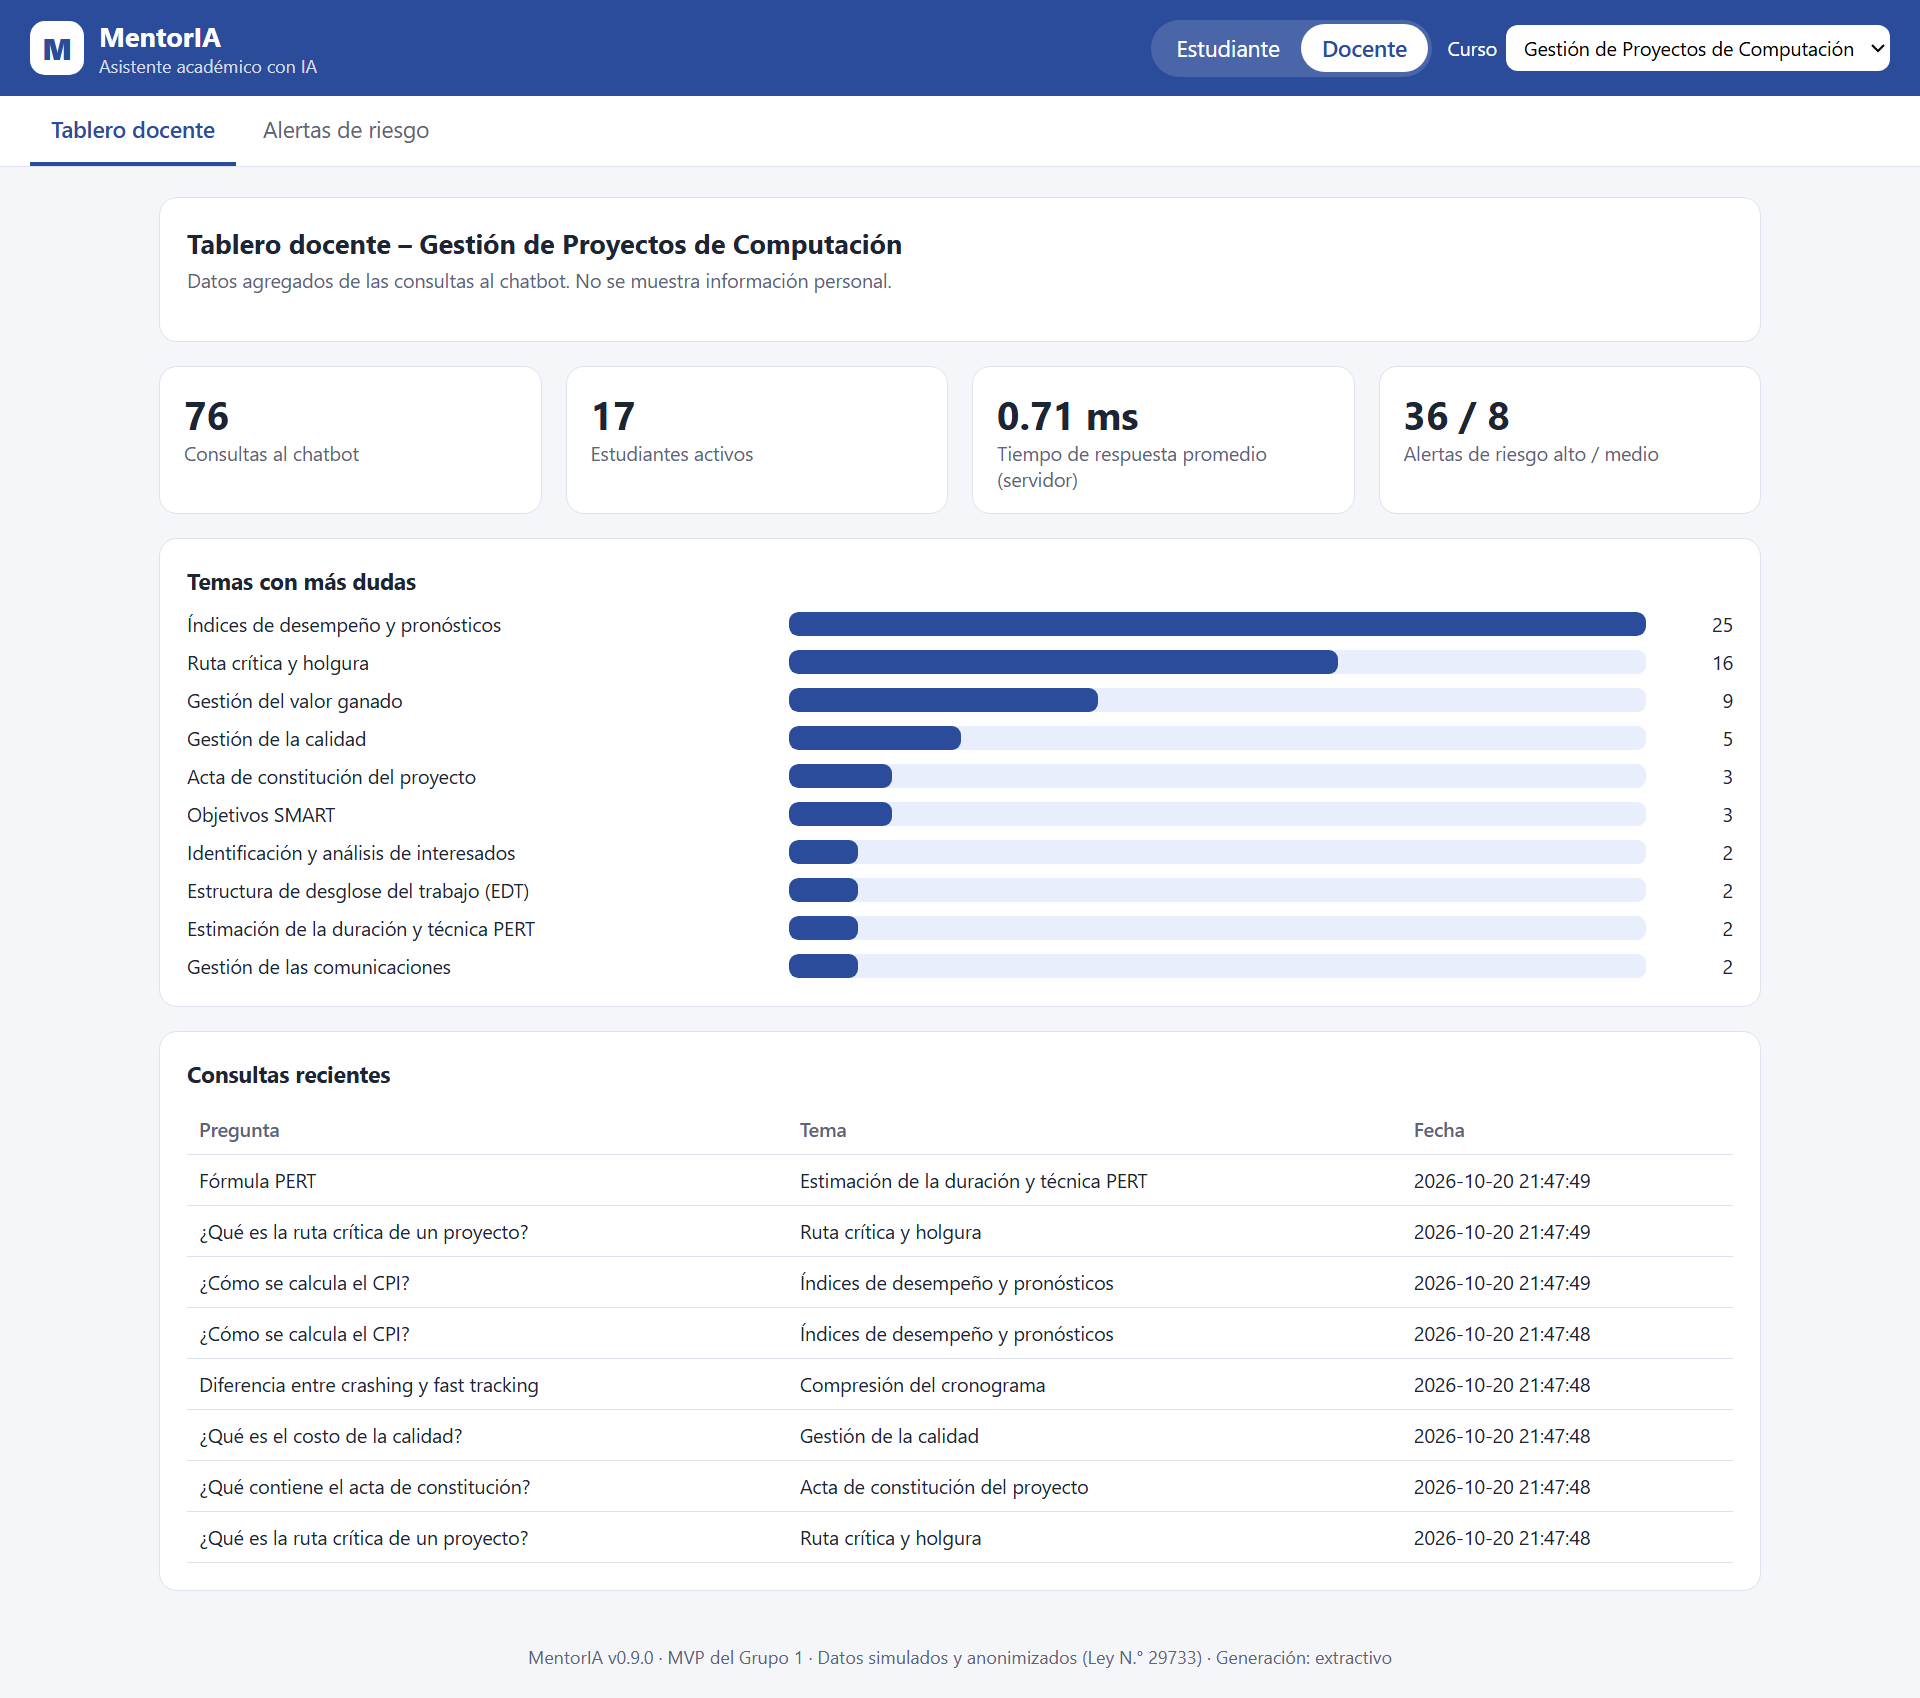
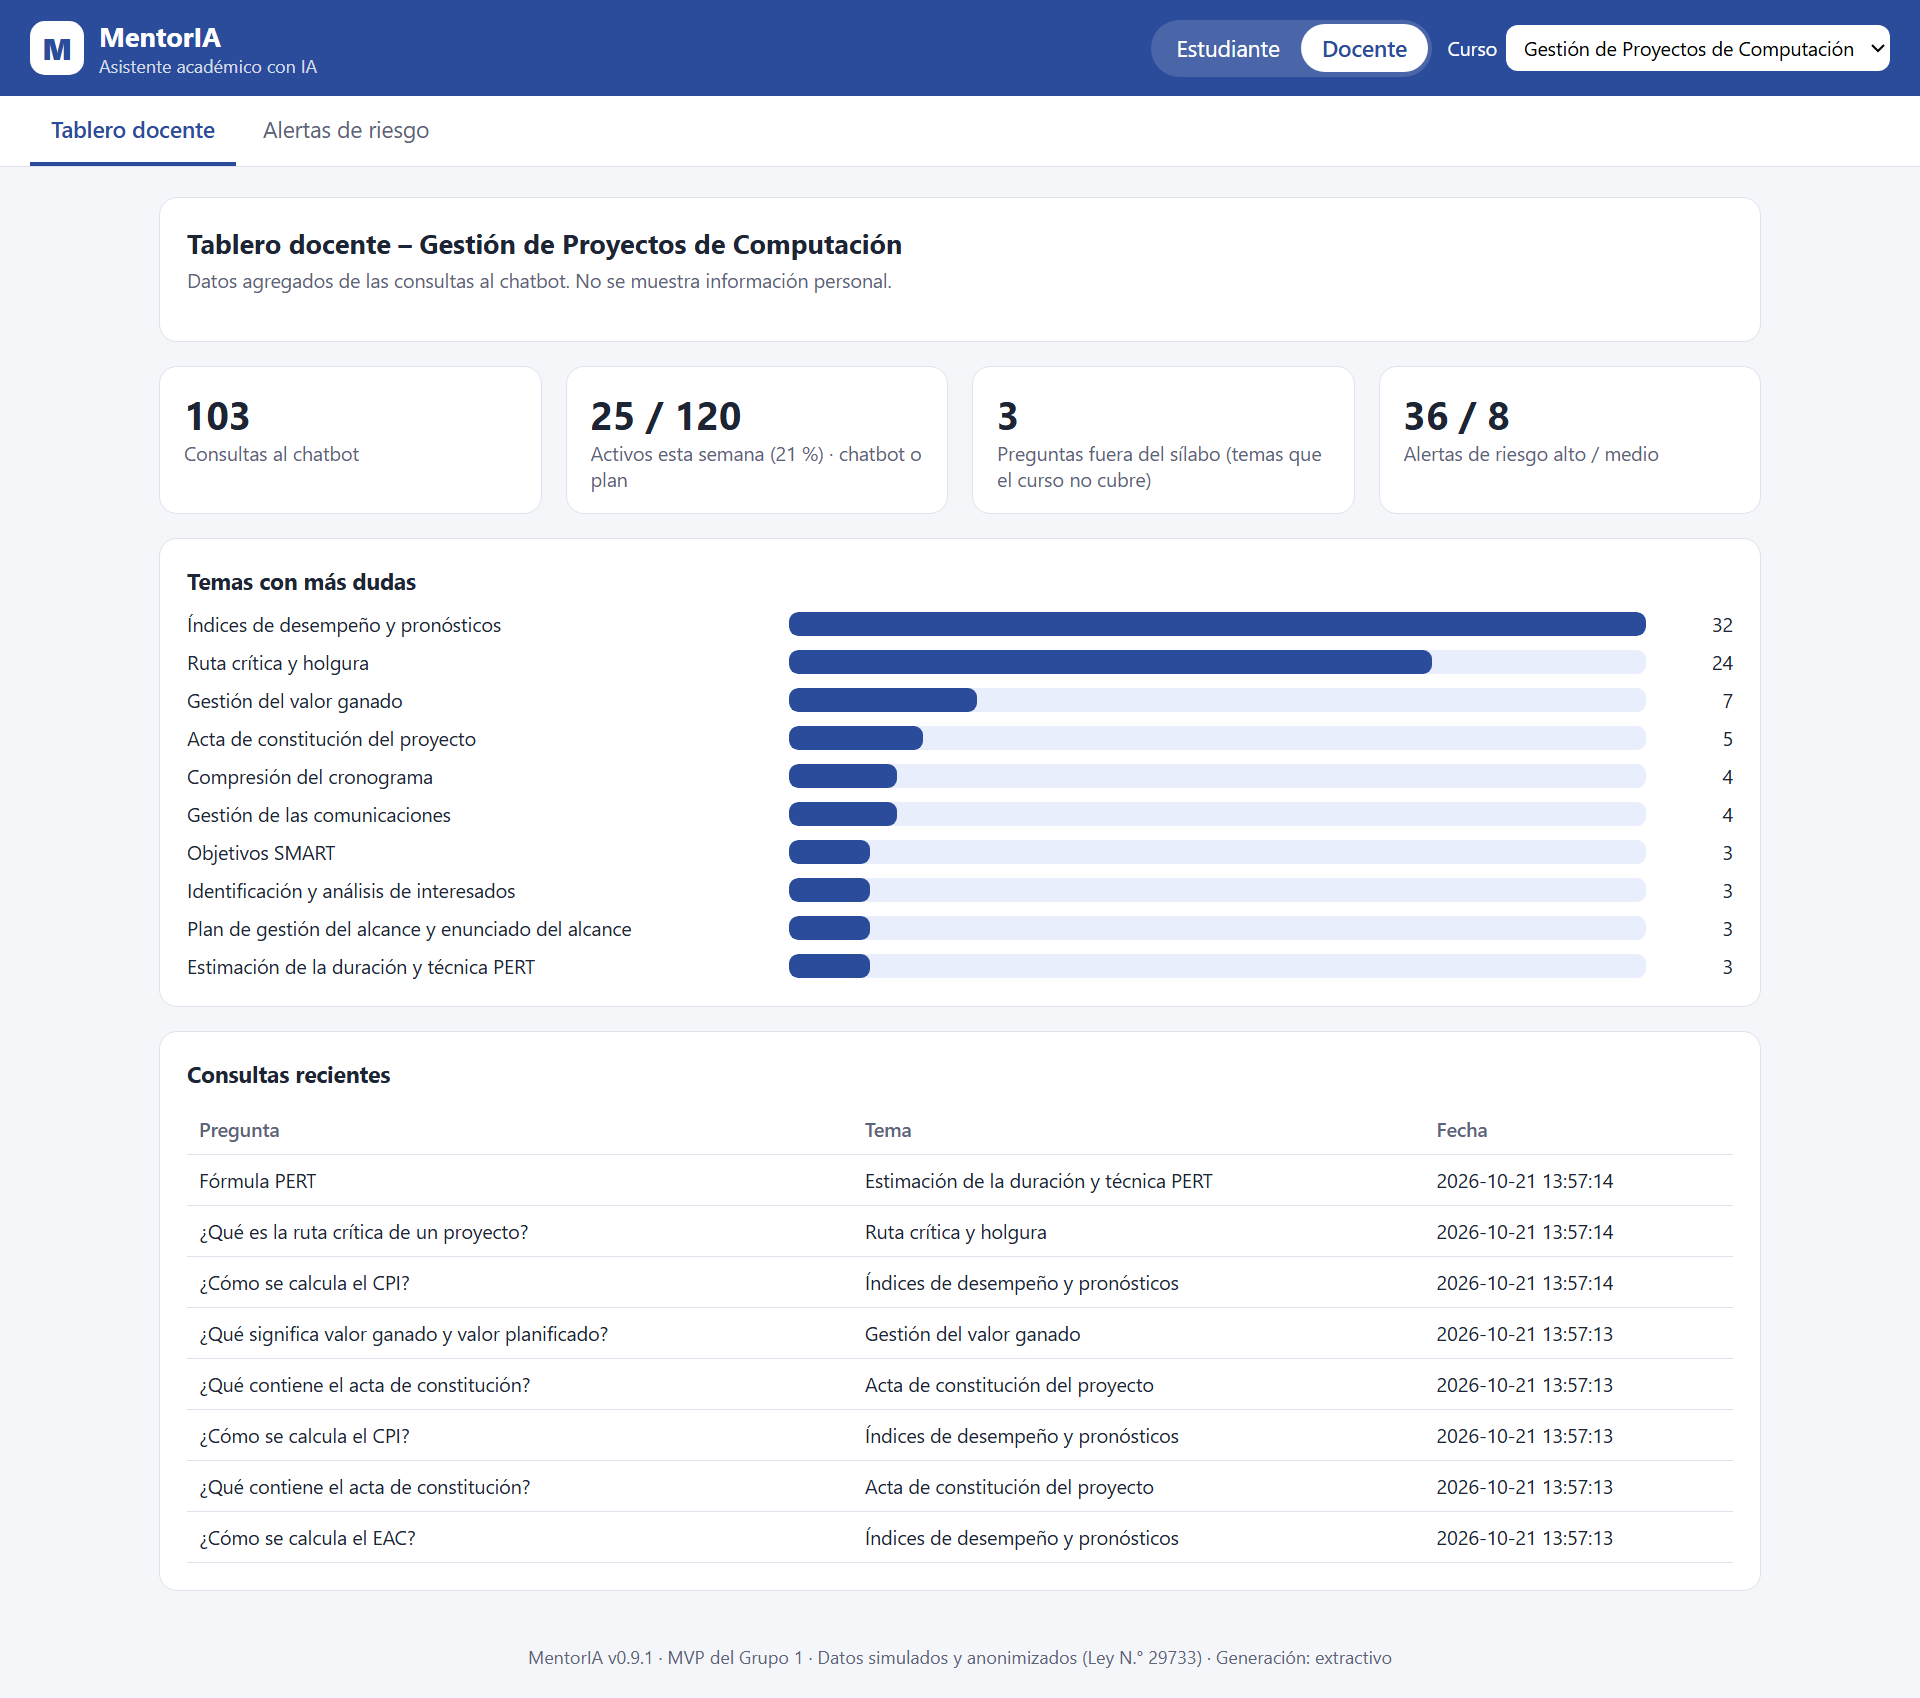
Tablero sin tiempo de respuesta; datos de demostración distintos por curso
- El docente ve "Preguntas fuera del sílabo" en lugar del tiempo de respuesta
  del servidor, que se sigue midiendo en las pruebas de calidad.
- seed_demo.py simula más uso en GPC que en IHC y reparte las preguntas en
  las últimas dos semanas; las consultas recientes se ordenan por fecha.

diff --git a/MentorIA_MVP/static/app.js b/MentorIA_MVP/static/app.js
@@ -187,7 +187,7 @@ async function vistaTablero() {
       h("div", { class: "kpi" }, h("div", { class: "valor" }, t.total_consultas), h("div", { class: "etiqueta" }, "Consultas al chatbot")),
       h("div", { class: "kpi" }, h("div", { class: "valor" }, `${t.estudiantes_activos} / ${t.estudiantes_curso}`),
         h("div", { class: "etiqueta" }, `Activos esta semana (${t.porcentaje_activos} %) · chatbot o plan`)),
-      h("div", { class: "kpi" }, h("div", { class: "valor" }, `${t.tiempo_respuesta_ms} ms`), h("div", { class: "etiqueta" }, "Tiempo de respuesta promedio (servidor)")),
+      h("div", { class: "kpi" }, h("div", { class: "valor" }, t.consultas_fuera_de_silabo), h("div", { class: "etiqueta" }, "Preguntas fuera del sílabo (temas que el curso no cubre)")),
       h("div", { class: "kpi" }, h("div", { class: "valor" }, `${t.alertas.alto} / ${t.alertas.medio}`), h("div", { class: "etiqueta" }, "Alertas de riesgo alto / medio"))),
     h("section", { class: "tarjeta", style: "margin-top:16px" },
       h("h3", {}, "Temas con más dudas"),

diff --git a/MentorIA_MVP/seed_demo.py b/MentorIA_MVP/seed_demo.py
@@ -33,20 +33,35 @@ def main():
     # Los temas de valor ganado y ruta crítica concentran más dudas en GPC, y SUS/heurísticas en IHC.
     pesos_extra = {"CPI": 6, "EAC": 4, "ruta crítica": 5, "holgura": 3, "valor ganado": 4,
                    "SUS": 5, "Nielsen": 4, "WCAG": 3}
+    # Uso distinto por curso, repartido en las últimas 2 semanas: (alumnos que usan MentorIA, preguntas).
+    uso = {"GPC": (26, 95), "IHC": (11, 34)}
+    ahora = datetime.now()
+
+    def fecha_al_azar():
+        dia = ahora - timedelta(days=rnd.randint(0, 13))
+        hora = dia.replace(hour=rnd.randint(8, 22), minute=rnd.randint(0, 59), second=rnd.randint(0, 59))
+        return min(hora, ahora).strftime("%Y-%m-%d %H:%M:%S")
+
+    def preguntar(estudiante, curso, pregunta):
+        app.chat(estudiante, curso, pregunta)
+        app.con.execute("UPDATE consultas SET fecha=? WHERE id=(SELECT MAX(id) FROM consultas)", (fecha_al_azar(),))
+
     total = 0
-    for curso in ("GPC", "IHC"):
-        estudiantes = [r["codigo"] for r in app.dataset if r["curso"] == curso][:18]
+    for curso, (n_alumnos, n_preguntas) in uso.items():
+        codigos = [r["codigo"] for r in app.dataset if r["curso"] == curso]
+        estudiantes = rnd.sample(codigos, n_alumnos)
         lista = []
         for q in banco[curso]:
             peso = 1 + sum(v for k, v in pesos_extra.items() if k.lower() in q.lower())
             lista += [q] * peso
-        for _ in range(70):
-            app.chat(rnd.choice(estudiantes), curso, rnd.choice(lista))
+        for _ in range(n_preguntas):
+            preguntar(rnd.choice(estudiantes), curso, rnd.choice(lista))
             total += 1
         for p in preguntas["fuera_de_silabo"]:
             if p["curso"] == curso:
-                app.chat(rnd.choice(estudiantes), curso, p["pregunta"])
+                preguntar(rnd.choice(estudiantes), curso, p["pregunta"])
                 total += 1
+    app.con.commit()
     # Plan de E001 con tareas completadas en 3 días seguidos (muestra la racha y las insignias).
     plan = app.crear_plan({"estudiante": "E001", "curso": "GPC", "horas_semana": 4, "semanas": 3,
                            "unidades_debiles": ["Unidad 5: Gestión de los costos y valor ganado",
@@ -54,11 +69,18 @@ def main():
     hoy = datetime.now().replace(hour=19, minute=0, second=0, microsecond=0)
     for i, tarea in enumerate(plan["tareas"][:5]):
         planes.completar_tarea(app.con, tarea["id"], "E001", cuando=hoy - timedelta(days=max(0, 2 - i // 2)))
-    for q in ["¿Cómo se calcula el CPI?", "¿Qué es la ruta crítica de un proyecto?", "Fórmula PERT"]:
+    for dias, q in [(2, "¿Qué es un objetivo SMART?"), (1, "¿Qué es la holgura total?"),
+                    (0, "¿Cómo se calcula el CPI?"), (0, "¿Qué es la ruta crítica de un proyecto?"), (0, "Fórmula PERT")]:
         app.chat("E001", "GPC", q)
+        if dias:
+            app.con.execute("UPDATE consultas SET fecha=? WHERE id=(SELECT MAX(id) FROM consultas)",
+                            ((hoy - timedelta(days=dias)).strftime("%Y-%m-%d %H:%M:%S"),))
         total += 1
+    app.con.commit()
     print(f"Datos de demostración cargados: {total} consultas, plan de E001 con 5 tareas completadas.")
-    print(json.dumps(app.logros("E001"), ensure_ascii=False, indent=1)[:400])
+    for curso in uso:
+        t = app.tablero(curso)
+        print(f"  {curso}: {t['total_consultas']} consultas, {t['estudiantes_activos']}/{t['estudiantes_curso']} activos esta semana")
 
 
 if __name__ == "__main__":

diff --git a/MentorIA_MVP/mentoria/tablero.py b/MentorIA_MVP/mentoria/tablero.py
@@ -29,7 +29,7 @@ def metricas_curso(con, indice, modelo, dataset, curso):
                                     SUM(CASE WHEN en_silabo=0 THEN 1 ELSE 0 END) fuera
                              FROM consultas WHERE curso=?""", (curso,)).fetchone()
     recientes = [dict(r) for r in con.execute(
-        "SELECT pregunta, tema, fecha FROM consultas WHERE curso=? AND en_silabo=1 ORDER BY id DESC LIMIT 8", (curso,))]
+        "SELECT pregunta, tema, fecha FROM consultas WHERE curso=? AND en_silabo=1 ORDER BY fecha DESC, id DESC LIMIT 8", (curso,))]
     alertas = alertas_curso(modelo, dataset, curso)
     # Activos en los últimos 7 días: preguntaron al chatbot o completaron una tarea de su plan del curso.
     activos = con.execute("""SELECT COUNT(*) FROM (

diff --git a/MentorIA_MVP/GUIA_DEMO.md b/MentorIA_MVP/GUIA_DEMO.md
@@ -23,7 +23,7 @@ Atajo: abrir la carpeta en el Explorador, escribir `powershell` en la barra de d
 ```
 python seed_demo.py
 ```
-Debe decir: `Datos de demostración cargados: 148 consultas...`.
+Debe decir: `Datos de demostración cargados: 139 consultas...` y una línea por curso (Gestión de Proyectos tiene más uso que IHC).
 Esto llena el tablero docente con preguntas de ejemplo y deja al estudiante E001 con un plan avanzado y 3 insignias.
 **Ojo:** cada vez que se ejecuta borra todo y vuelve a empezar. Úsenlo para "reiniciar" la demo.
 
@@ -73,6 +73,8 @@ Arriba deben estar seleccionados **Estudiante** y el curso **Gestión de Proyect
 ### Escena 4 – El docente · 2,5 min
 1. Arriba, cambiar a **Docente**. Se abre el **Tablero docente**.
    > *Decir:* "El docente ve en qué temas se concentran las dudas. Aquí, valor ganado y ruta crítica: son los temas que conviene reforzar en clase. Solo se muestran datos agregados, sin nombres."
+   - Señalar **Activos esta semana** (cuántos alumnos del curso usaron el chatbot o su plan en los últimos 7 días) y **Preguntas fuera del sílabo** (temas que los alumnos buscan y el curso no cubre).
+   - (Opcional) Cambiar el curso a **Interacción Humano-Computador**: tiene menos uso y otros temas con más dudas (SUS, heurísticas de Nielsen).
    - Bajar hasta **Consultas recientes**: arriba aparece la pregunta del CPI que se hizo en la escena 1.
      > *Decir:* "Lo que el alumno le pregunta al chatbot llega al docente al instante, sin decir quién preguntó."
 2. Ir a **Alertas de riesgo**.

diff --git a/MentorIA_MVP/reports/reporte_calidad.md b/MentorIA_MVP/reports/reporte_calidad.md
@@ -1,8 +1,8 @@
 # Reporte de calidad – MentorIA MVP
 
-Fecha: 21/10/2026 13:51 · Entorno: Python 3.12.10 · Windows 11
+Fecha: 21/10/2026 13:56 · Entorno: Python 3.12.10 · Windows 11
 
-**19 de 19 casos aprobados** en 3.47 s.
+**19 de 19 casos aprobados** en 3.06 s.
 
 ## Criterios de aceptación
 
@@ -11,7 +11,7 @@ Fecha: 21/10/2026 13:51 · Entorno: Python 3.12.10 · Windows 11
 | RF-01 | Sílabos de los 2 cursos piloto indexados | 100 % | 100% | Sí |
 | RF-02 | Recuperación del tema correcto (top 3) | ≥ 90 % | 100.0% | Sí |
 | RF-03 | Rechazo de preguntas fuera del sílabo | 100 % | 100% | Sí |
-| RNF-01 | Tiempo de respuesta promedio del chatbot | < 5 s | 14 ms | Sí |
+| RNF-01 | Tiempo de respuesta promedio del chatbot | < 5 s | 11 ms | Sí |
 | RNF-02 | Sensibilidad del modelo de alertas | ≥ 70 % | 82.6% | Sí |
 
 ## Casos de prueba
